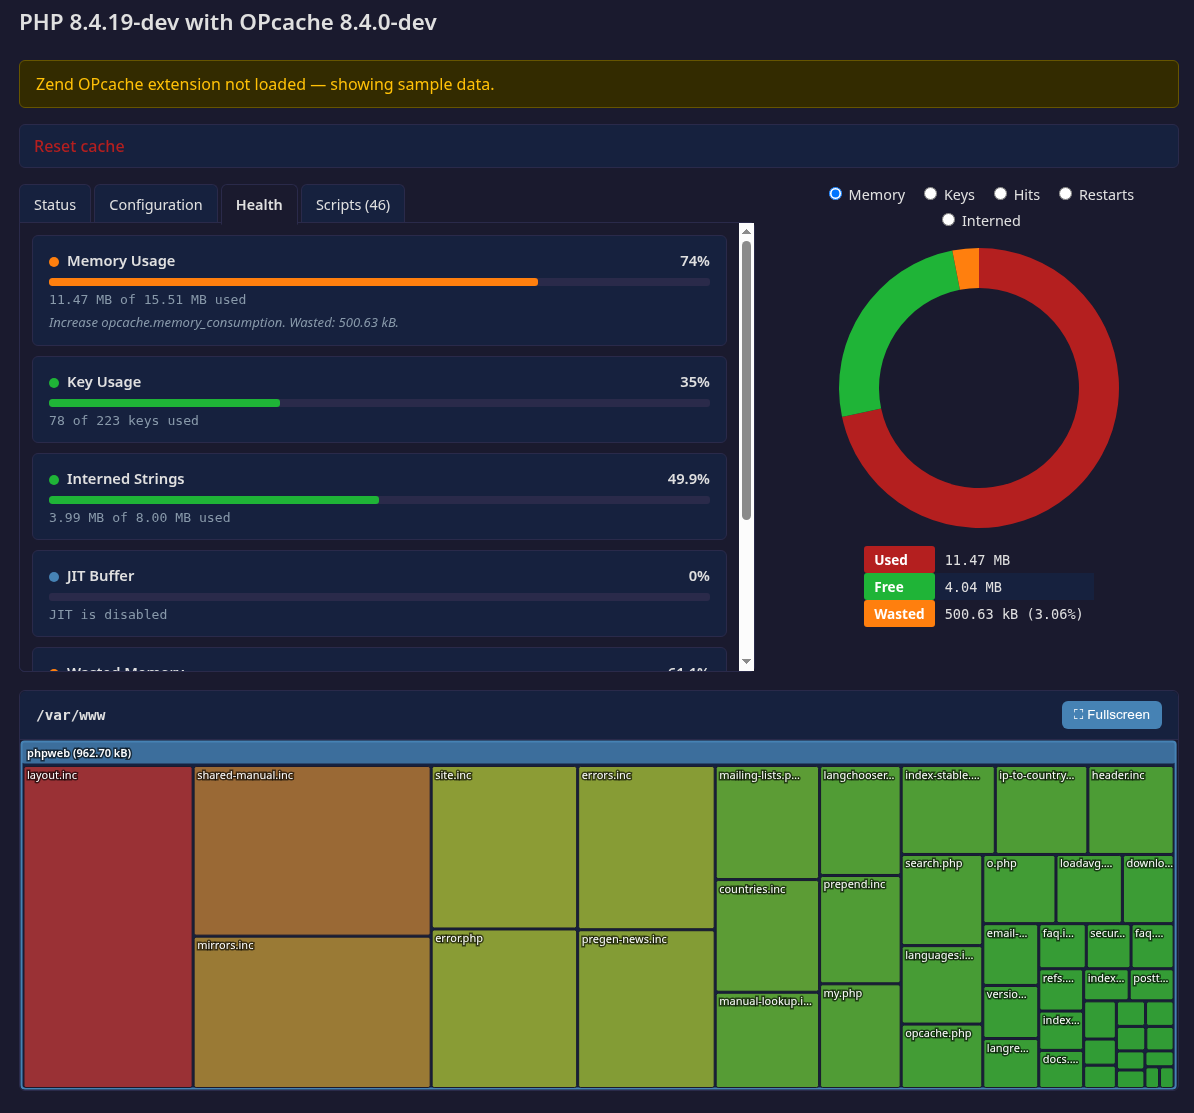
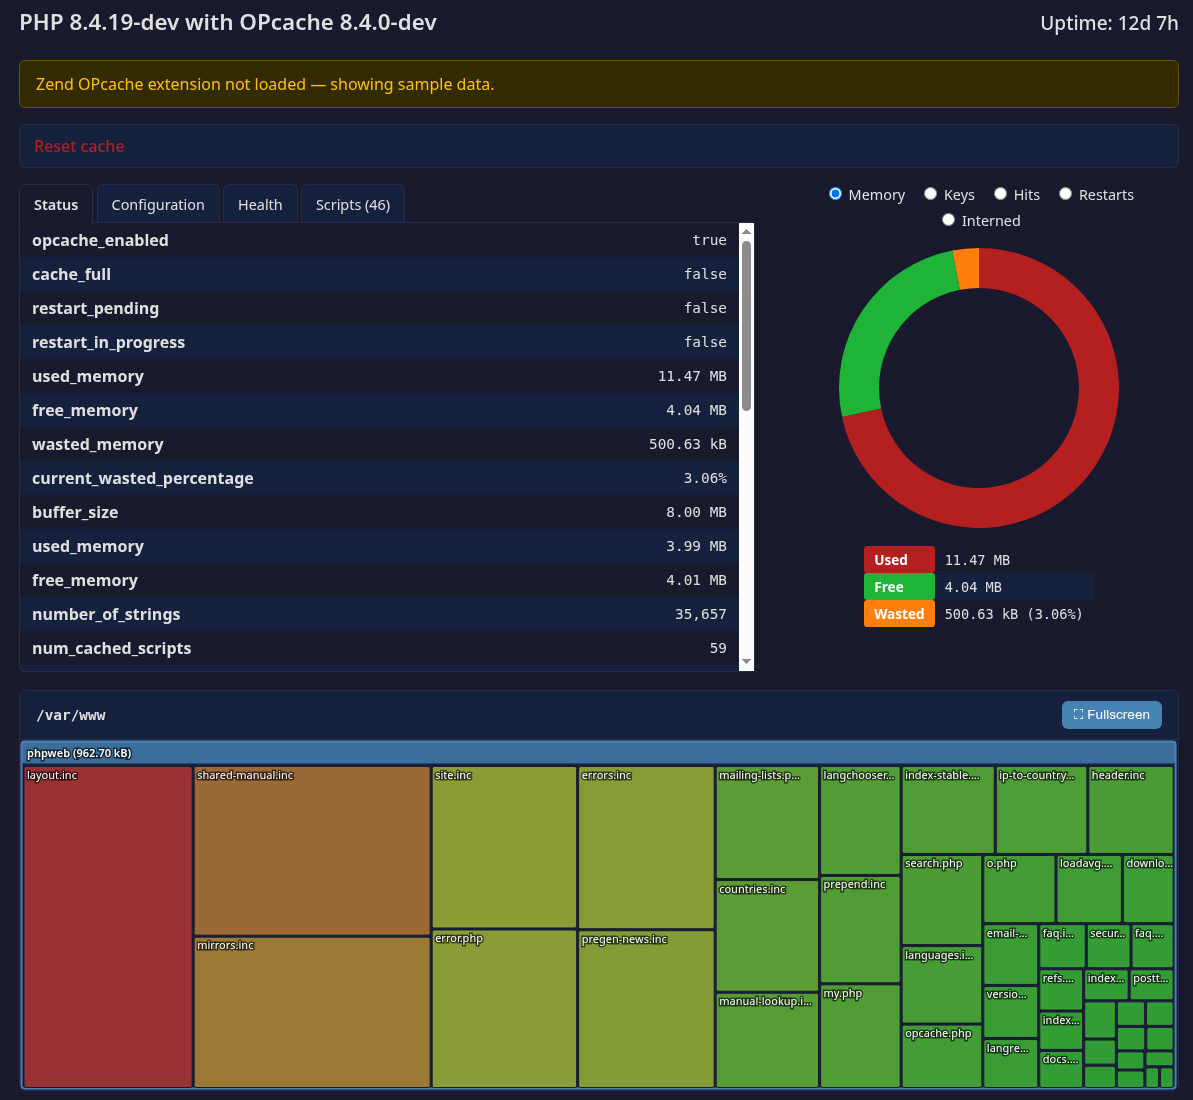
Add uptime

diff --git a/opcache.php b/opcache.php
@@ -34,6 +34,22 @@ class OpCacheDataModel
         return 'PHP ' . phpversion() . " with OPcache {$this->configuration['version']['version']}";
     }
 
+    public function getUptime(): string
+    {
+        if (!is_array($this->status) || empty($this->status['opcache_statistics']['start_time'])) {
+            return '';
+        }
+        $start = $this->status['opcache_statistics']['start_time'];
+        $lastRestart = $this->status['opcache_statistics']['last_restart_time'] ?? 0;
+        $since = $lastRestart > 0 ? $lastRestart : $start;
+        $diff = (new \DateTimeImmutable("@$since"))->diff(new \DateTimeImmutable());
+        if ($diff->y > 0) return $diff->format('%yy %mmo');
+        if ($diff->m > 0) return $diff->format('%mmo %dd');
+        if ($diff->d > 0) return $diff->format('%dd %hh');
+        if ($diff->h > 0) return $diff->format('%hh %im');
+        return $diff->format('%im %ss');
+    }
+
     public function getStatusDataRows(): string
     {
         $rows = [];
@@ -692,6 +708,14 @@ $noOpcache = !extension_loaded('Zend OPcache');
             padding: 16px 0 8px;
             font-size: 1.4em;
             font-weight: 600;
+            display: flex;
+            justify-content: space-between;
+            align-items: baseline;
+        }
+        h1 .uptime {
+            font-weight: 500;
+            font-size: 0.85em;
+            color: var(--text);
         }
         .notice {
             background-color: #fff3cd;
@@ -1037,7 +1061,7 @@ $noOpcache = !extension_loaded('Zend OPcache');
 </head>
 <body>
     <div id="container">
-        <h1><?= $dataModel->getPageTitle() ?></h1>
+        <h1><?= $dataModel->getPageTitle() ?><?php $uptime = $dataModel->getUptime(); if ($uptime): ?><span class="uptime">Uptime: <?= $uptime ?></span><?php endif; ?></h1>
 
         <?php if ($noOpcache): ?>
         <div class="notice">Zend OPcache extension not loaded &mdash; showing sample data.</div>

diff --git a/data-sample.php b/data-sample.php
@@ -24,7 +24,7 @@ function opcache_get_status(): array
             'num_cached_keys' => 78,
             'max_cached_keys' => 223,
             'hits' => 66817,
-            'start_time' => 1363461391,
+            'start_time' => time() - 86400 * 12 - 3600 * 7,
             'last_restart_time' => 0,
             'misses' => 126,
             'blacklist_misses' => 0,
